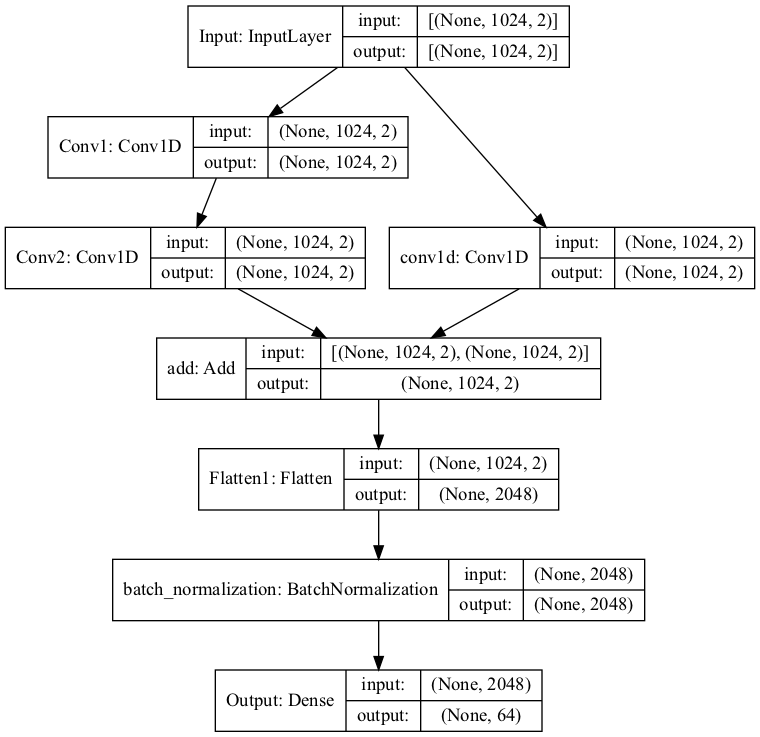
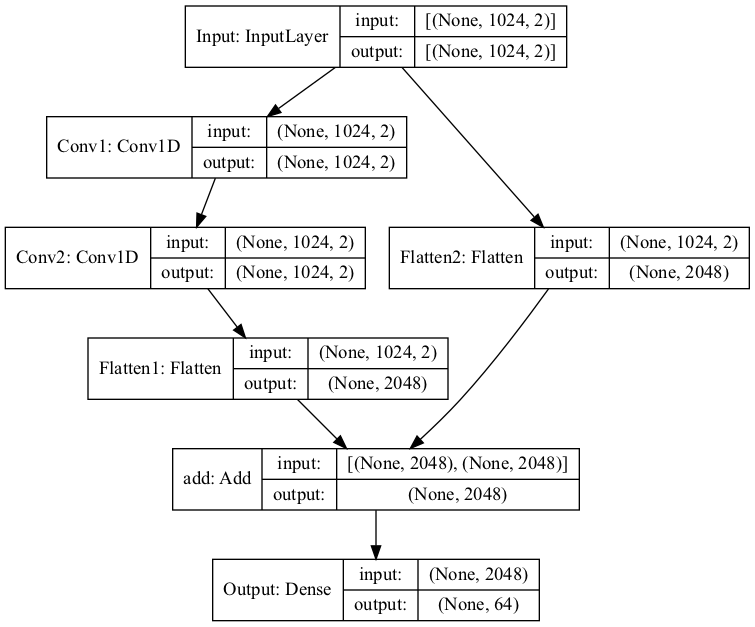
small fix

Changed region(s): [[0.0, 0.0, 1.0, 1.0]]

diff --git a/CNN_symbols.py b/CNN_symbols.py
@@ -6,7 +6,7 @@ import matplotlib.pyplot as plt
 class CNN_symbols:
 
     def __init__(self, xtrain, ytrain, xtest, ytest, xvalidation, yvalidation,
-                 batch_size=200, epochs=500, learning_rate=2,
+                 batch_size=250, epochs=500, learning_rate=1,
                  build_model=True, save_model=True, draw_model=True,
                  show_summary=True, show_verbose=True):
 
@@ -30,6 +30,7 @@ class CNN_symbols:
 
             self.build_my_model()
 
+
     def build_my_model(self):
 
         self.N = int(self.xtrain.shape[1])
@@ -45,23 +46,29 @@ class CNN_symbols:
         self.conv2 = tf.keras.layers.Conv1D(
            filters=2,kernel_size=32, activation='relu',padding="same", name='Conv2')(self.conv1)
 
-        self.residual = tf.keras.layers.Conv1D(filters=2,kernel_size=1)(self.residual)
+           
+
+        #self.residual = tf.keras.layers.Conv1D(filters=2,kernel_size=1,activation='linear')(self.residual)
         
-        self.results = tf.keras.layers.add([self.conv2,self.residual])
+        
 
-        #self.maxpool = tf.keras.layers.MaxPool1D(pool_size=10)(self.results)
+        #self.results = tf.keras.layers.add([self.BN,self.residual])
+        
+        self.flatten1 = tf.keras.layers.Flatten(name='Flatten1')(self.conv2)
+        self.flatten2 = tf.keras.layers.Flatten(name='Flatten2')(self.residual)
+        
+        
 
-        self.flatten1 = tf.keras.layers.Flatten(name='Flatten1')(self.results)
+        self.results = tf.keras.layers.add([self.flatten1,self.flatten2])
 
-        self.BN = tf.keras.layers.BatchNormalization()(self.flatten1)
-
+        
         self.output_layer = tf.keras.layers.Dense(
-           units=64, activation='linear', name='Output')(self.BN)
+           units=64, activation='linear', name='Output')(self.results)
 
         self.my_model = tf.keras.models.Model(
             inputs=self.input_layer, outputs=self.output_layer)
 
-        self.my_loss = tf.keras.losses.MeanSquaredError()
+        self.my_loss = tf.keras.losses.MeanAbsoluteError()
 
         self.my_optimizer = tf.keras.optimizers.SGD(lr=self.learning_rate)
 

diff --git a/CNN.py b/CNN.py
@@ -53,10 +53,10 @@ class CNN:
 
 
         self.conv3 = tf.keras.layers.Conv1D(
-           filters=2,kernel_size=32,padding='same', activation='relu', name='Conv3')(self.results1)
+           filters=2,kernel_size=32,padding='same', activation='tanh', name='Conv3')(self.results1)
 
         self.conv4 = tf.keras.layers.Conv1D(
-           filters=2,kernel_size=32,padding='same', activation='relu', name='Conv4')(self.conv3)
+           filters=2,kernel_size=32,padding='same', activation='tanh', name='Conv4')(self.conv3)
 
 
 

diff --git a/main_symbols_Predictor.py b/main_symbols_Predictor.py
@@ -50,8 +50,6 @@ ypred = cnn.ypred
 
 optic_fiber_channel = Channel(number_symbols=32,N=2**10,T=200,Length=30)
 
-print(ypred.shape)
-
 ypred.shape = (-1,32,2)
 
 print(ypred.shape)
